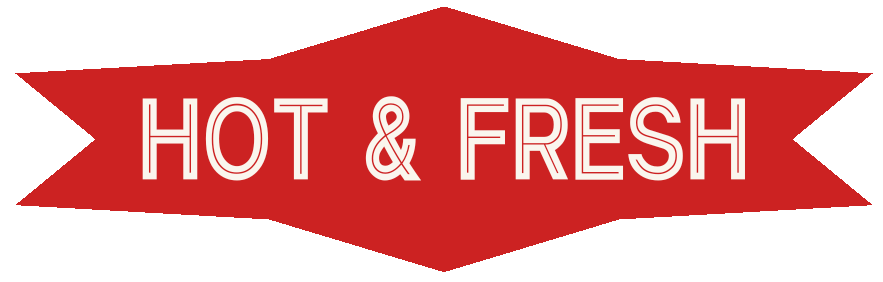
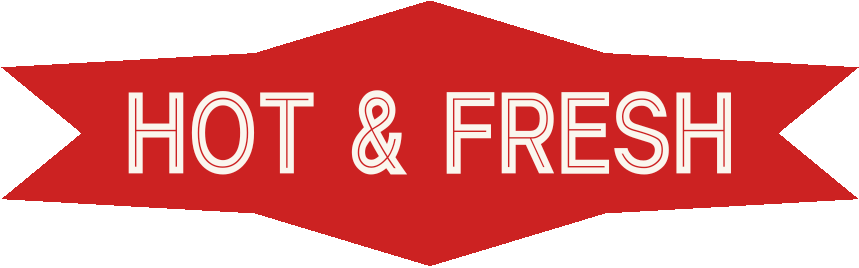
画像サイズ修正

diff --git a/index.html b/index.html
@@ -12,7 +12,6 @@
 <body>
 
 <div class="outer">
-  <!-- ヘッダーチェッカー柄 -->
   <div class="checker" id="checker-top"></div>
 
   <div class="inner">
@@ -21,10 +20,7 @@
       <div class="hero-tag">WELCOME TO MY LIFE LOG</div>
       <div class="hero-top-row">
         <div class="hero-title">PORTFOLIO<br><span class="red">COZY DINER</span></div>
-        <!-- 将来ギミック用空ボタン。チェッカーの下から紐が生えるイメージで配置 -->
-        <button class="open-badge-btn" aria-label="OPEN 24 HOURS">
-          <img class="open-badge-img" src="images/open-badge.png" alt="OPEN 24 HOURS">
-        </button>
+        <img class="open-badge-img" src="images/open-badge.png" alt="OPEN 24 HOURS">
       </div>
       <div class="hero-bottom">
         <div class="hero-sub">勉強の記録や成果物、その他趣味のこと。気ままに更新中。</div>
@@ -36,7 +32,6 @@
     <div class="section-wrap">
       <div class="section-label">— MENU —</div>
 
-      <!-- ABOUT アコーディオン（横幅フル） -->
       <div class="accordion-card">
         <div class="accordion-header" onclick="toggleAccordion(this)">
           <div class="accordion-title-row">
@@ -46,12 +41,11 @@
           <div class="accordion-arrow"> <span class="arrow-icon">▼</span></div>
         </div>
         <div class="accordion-body">
-          <!-- ここにABOUTの内容を入れてね -->
+          <!-- ここにABOUTの内容を入れるよ -->
           自己紹介の内容がここに入ります。
         </div>
       </div>
 
-      <!-- WORKS / STUDY (2列) -->
       <div class="menu-grid-2">
         <div class="menu-card">
           <div class="menu-title">WORKS</div>
@@ -63,7 +57,6 @@
         </div>
       </div>
 
-      <!-- LIBRARY / TEA (2列) -->
       <div class="menu-grid-2">
         <div class="menu-card">
           <div class="menu-title">LIBRARY</div>
@@ -75,13 +68,10 @@
         </div>
       </div>
 
-      <!-- DRIVE IN gif ＋ SNAP / TRAVEL MAP -->
       <div class="menu-bottom-row">
-        <!-- drive-in.gif: GIFサイズに合わせてSNAP/TRAVEL MAPの高さも揃える -->
         <div class="drive-in-img-wrap">
           <img class="drive-in-img" src="images/drive-in.gif" alt="DRIVE IN">
         </div>
-        <!-- 右側：SNAP / TRAVEL MAP 縦2枚（GIFの高さに合わせて伸びる） -->
         <div class="menu-side-stack">
           <div class="menu-card">
             <div class="menu-title">SNAP</div>
@@ -99,7 +89,6 @@
       <!-- LATEST ORDER -->
       <div class="section-label">— LATEST ORDER —</div>
 
-      <!-- 記事リスト + HOT&FRESH画像（装飾のみ） -->
       <div class="latest-top-row">
         <div class="latest-list">
           <div class="latest-item">
@@ -111,7 +100,6 @@
             <div class="latest-item-title">記事を準備中…</div>
           </div>
         </div>
-        <!-- hot-fresh.png: 装飾のみ、クリック不可 -->
         <div class="hot-fresh-img-wrap">
           <img class="hot-fresh-img" src="images/hot-fresh.png" alt="HOT & FRESH">
         </div>
@@ -120,14 +108,12 @@
     </div>
   </div>
 
-  <!-- FOOTER DINER: diner.gif全体がGitHubリンクになる -->
   <div class="footer-diner">
     <a href="https://github.com/ha-mee2371/Portfolio" target="_blank" rel="noopener" class="diner-link">
       <img class="diner-img" src="images/diner.gif" alt="PORTFOLIO COZY DINER - WRITTEN BY ha-mee2371">
     </a>
   </div>
 
-  <!-- フッターチェッカー柄（地面） -->
   <div class="footer-checker-wrap">
     <div class="footer-checker checker" id="checker-bot"></div>
   </div>
@@ -136,7 +122,6 @@
 
 <script src="script.js"></script>
 <script>
-  // アコーディオン開閉
   function toggleAccordion(header) {
     const body = header.nextElementSibling;
     const arrow = header.querySelector('.accordion-arrow');
